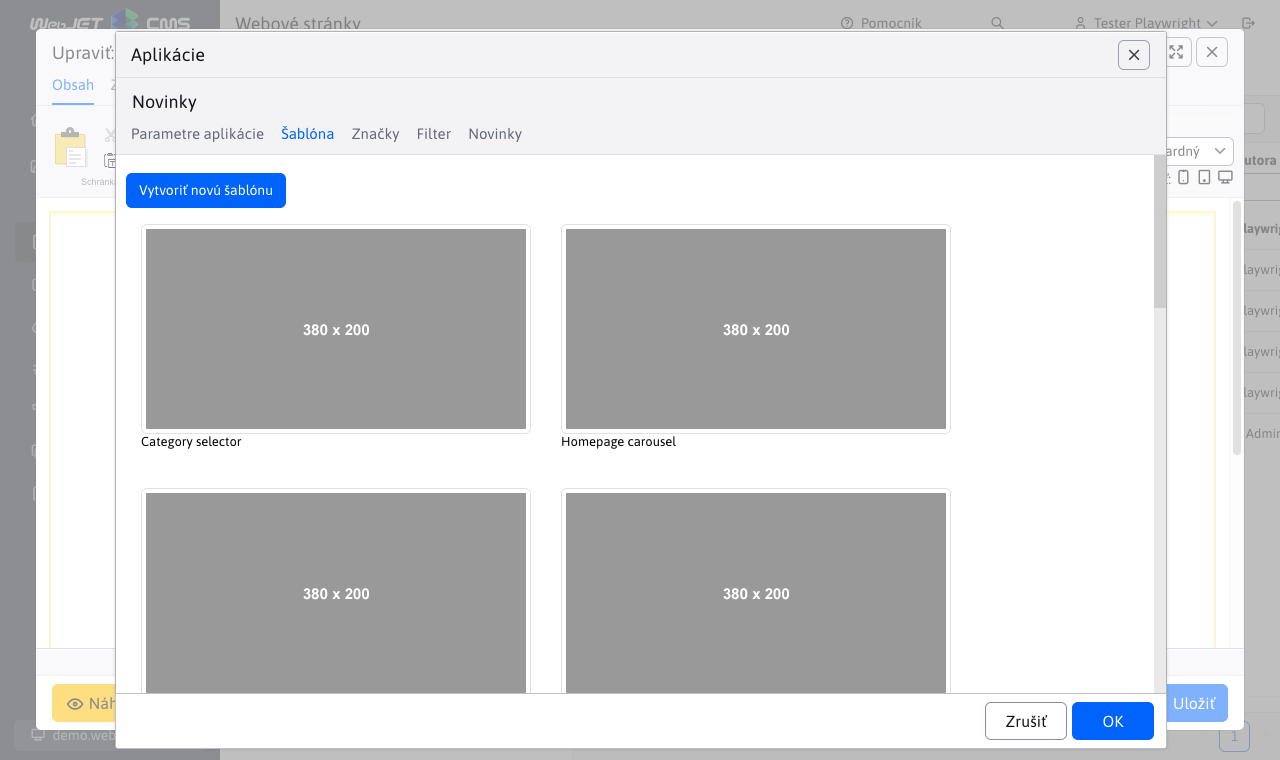
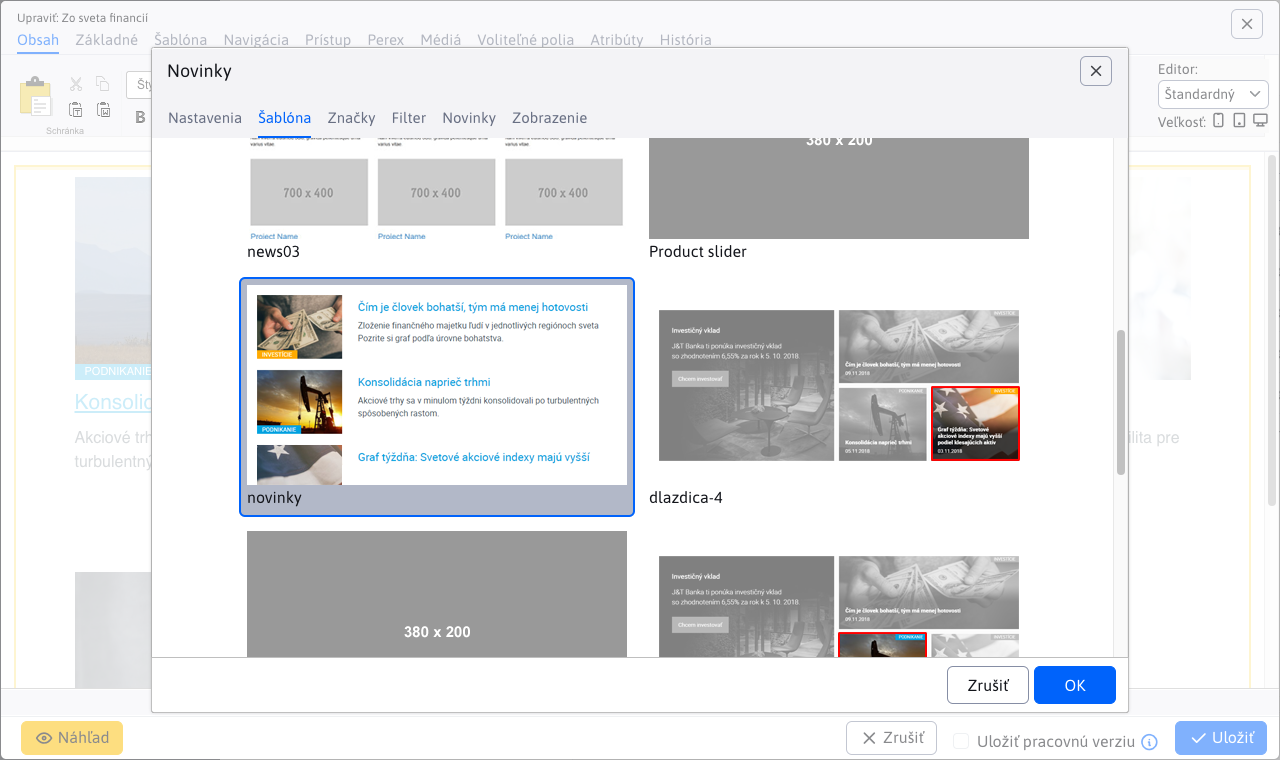
[58073] app preview screens

diff --git a/src/test/webapp/screenshots/generator/apps-editor-component.js b/src/test/webapp/screenshots/generator/apps-editor-component.js
@@ -147,7 +147,32 @@ Scenario('apps screenshot for editor-components.jsp', ({ I, DT, DTE, Document })
 
     screenshotWebAndApp(I, Document, 24008, "/components/media", ".ly-content .container", tabLinkNone, null, 800, 600);
 
-    screenshotWebAndApp(I, Document, 10, "/components/news", "section.md-news-subpage", tabLink1, tabLink2);
+    screenshotWebAndApp(I, Document, 10, "/components/news", "section.md-news-subpage", tabLink1Spring, function(Document, I, DT, DTE) {
+
+        I.clickCss("#pills-dt-component-datatable-filter-tab");
+
+        I.clickCss("button.btn-success");
+        I.selectOption( locate("#filtersTable > tbody > tr:last-child").find("select.fieldSelect") , "AUTHOR_ID");
+        I.selectOption( locate("#filtersTable > tbody > tr:last-child").find("td.operatorTd > select") , "<=");
+        I.fillField( locate("#filtersTable > tbody > tr:last-child").find("td.valueTd > input") , "123");
+
+        I.clickCss("button.btn-success");
+        I.selectOption( locate("#filtersTable > tbody > tr:last-child").find("select.fieldSelect") , "DATE_CREATED");
+        I.selectOption( locate("#filtersTable > tbody > tr:last-child").find("td.operatorTd > select") , "=");
+        I.fillField( locate("#filtersTable > tbody > tr:last-child").find("td.valueTd > input") , "01.10.2025");
+
+        I.clickCss("button.btn-success");
+        I.selectOption( locate("#filtersTable > tbody > tr:last-child").find("select.fieldSelect") , "AVAILABLE");
+        I.selectOption( locate("#filtersTable > tbody > tr:last-child").find("td.operatorTd > select") , "false");
+
+        I.clickCss("td.valueTd > input");
+        Document.screenshot(basePath+"/components/news/screenshot-4.jpg");
+
+        tabLink2Spring(Document, I, DT, DTE);
+        I.scrollTo(locate("label.custom-template").withChild(locate("span").withText("novinky")));
+        I.click( locate("label.custom-template").withChild(locate("span").withText("novinky")) );
+    });
+
     screenshotWebAndApp(I, Document, 77772, "/components/app-social_icon", ".ly-content .container", tabLink2Spring, null);
     screenshotWebAndApp(I, Document, 77773, "/components/app-testimonials", ".ly-content .container", tabLink1, tabLink2, 800, 600);
     screenshotWebAndApp(I, Document, 17322, "/components/qa", ".ly-content .container", tabLink1, tabLink3, 800, 600);
